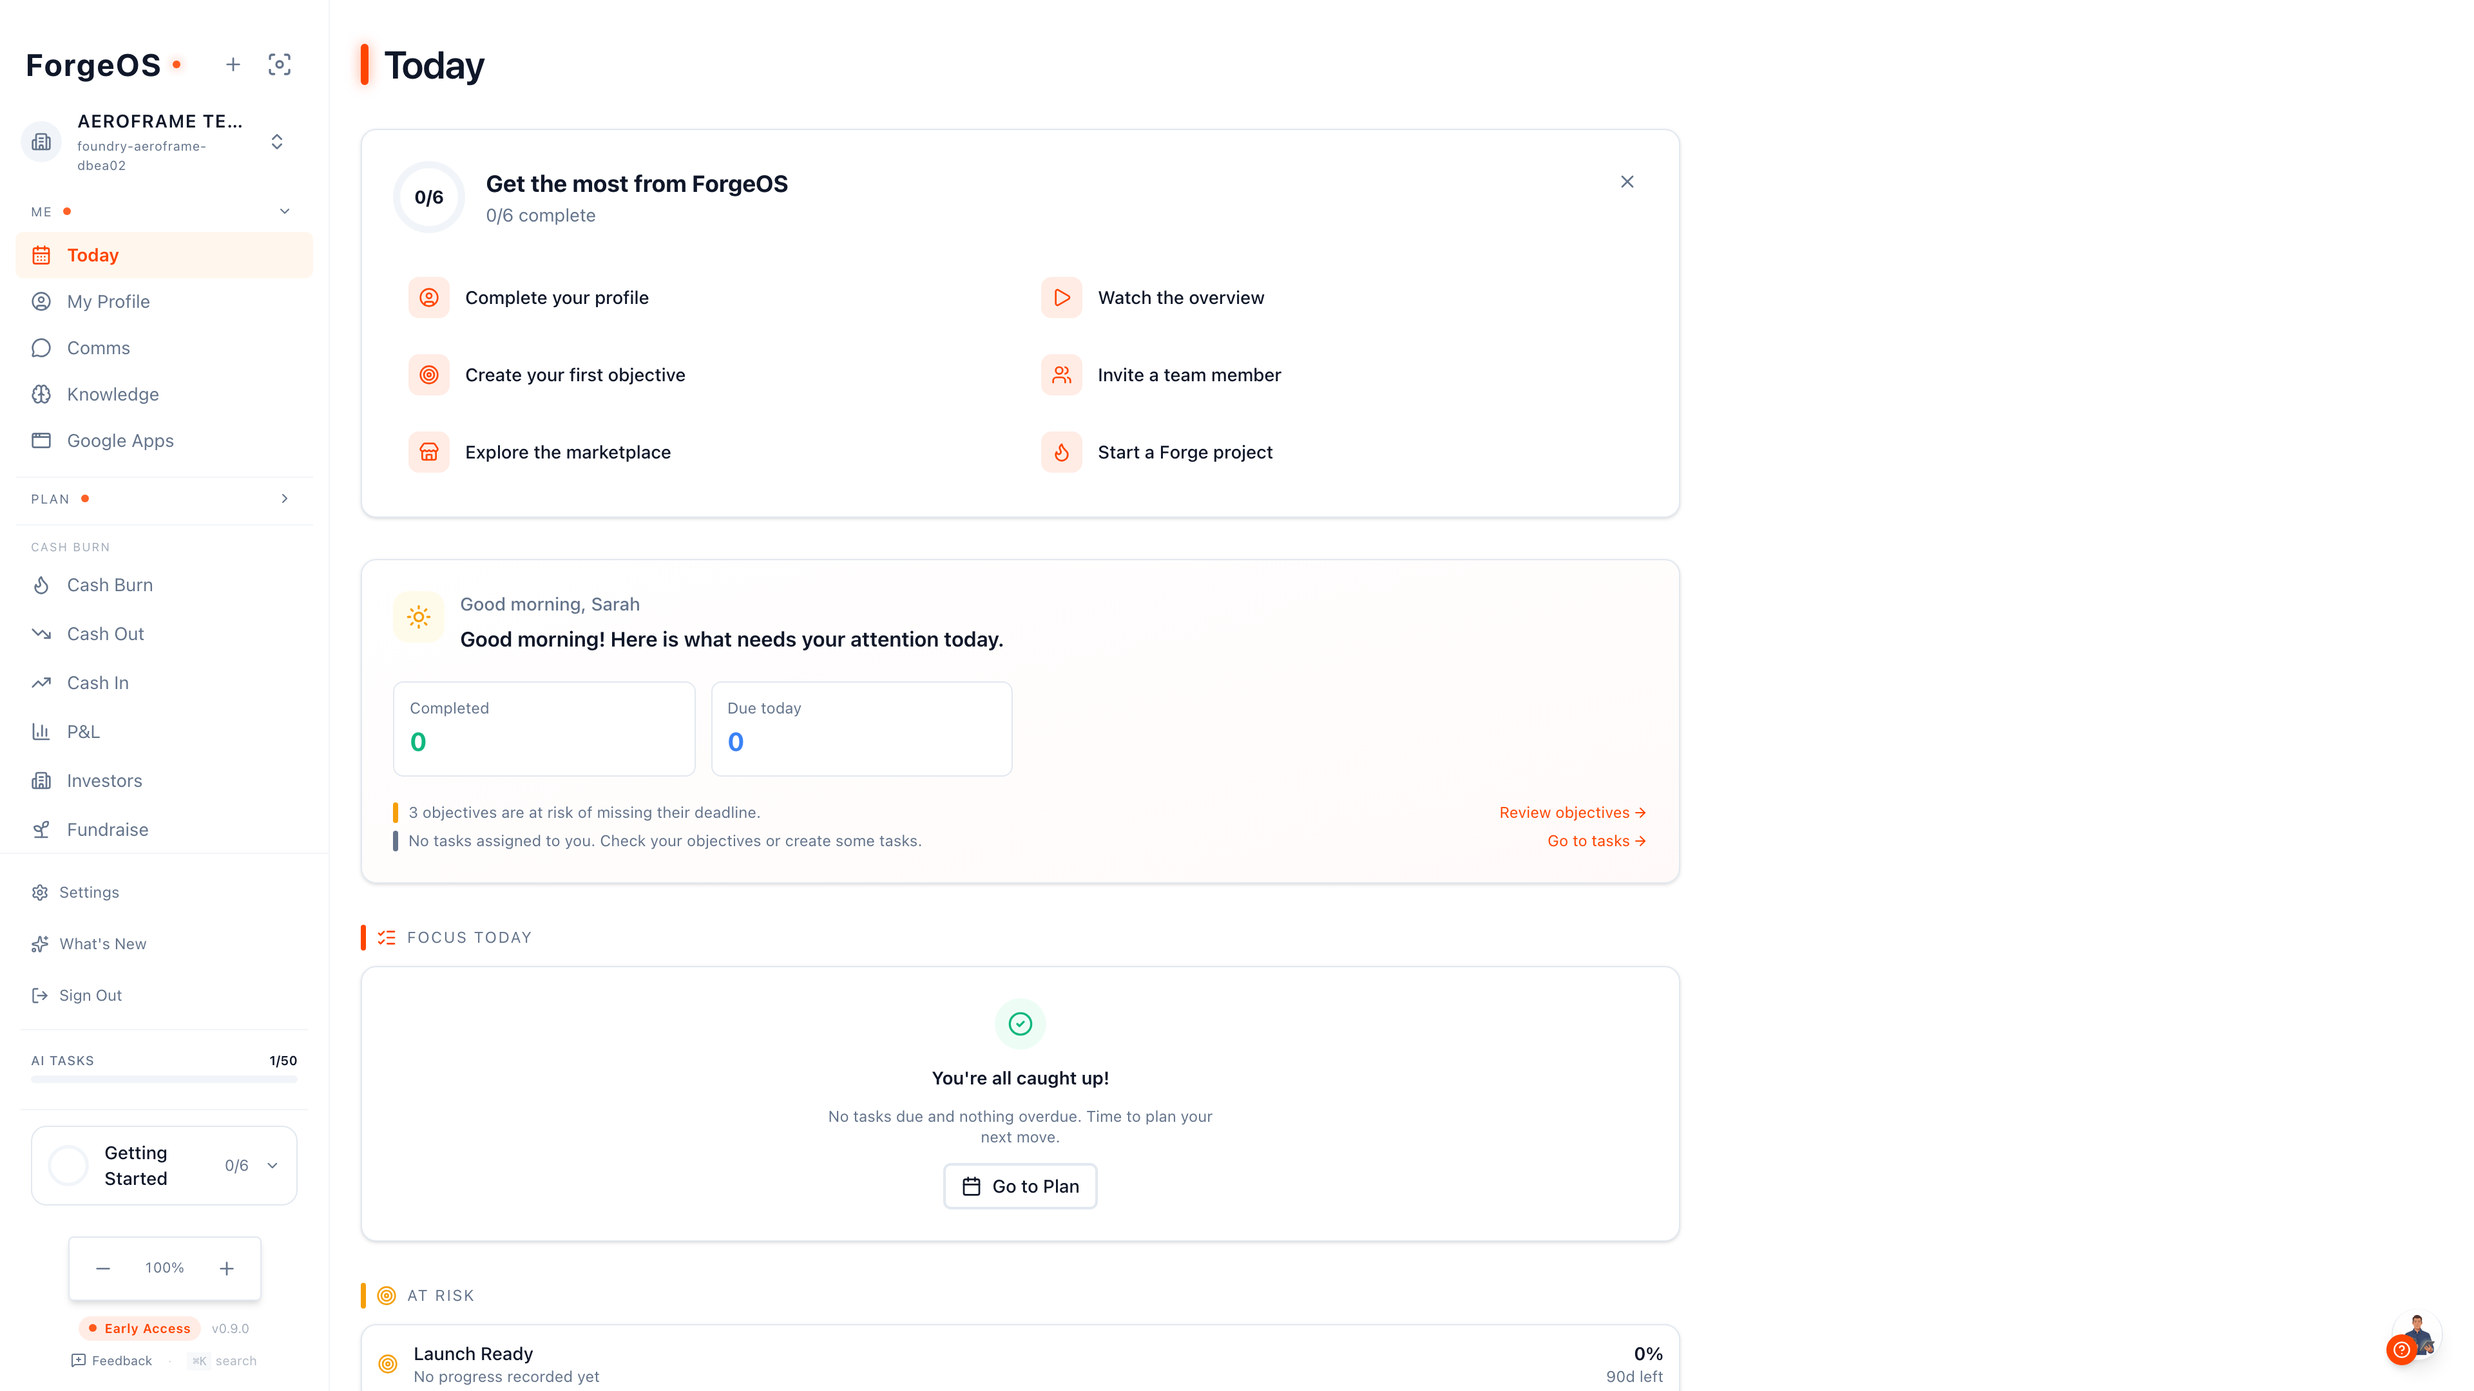
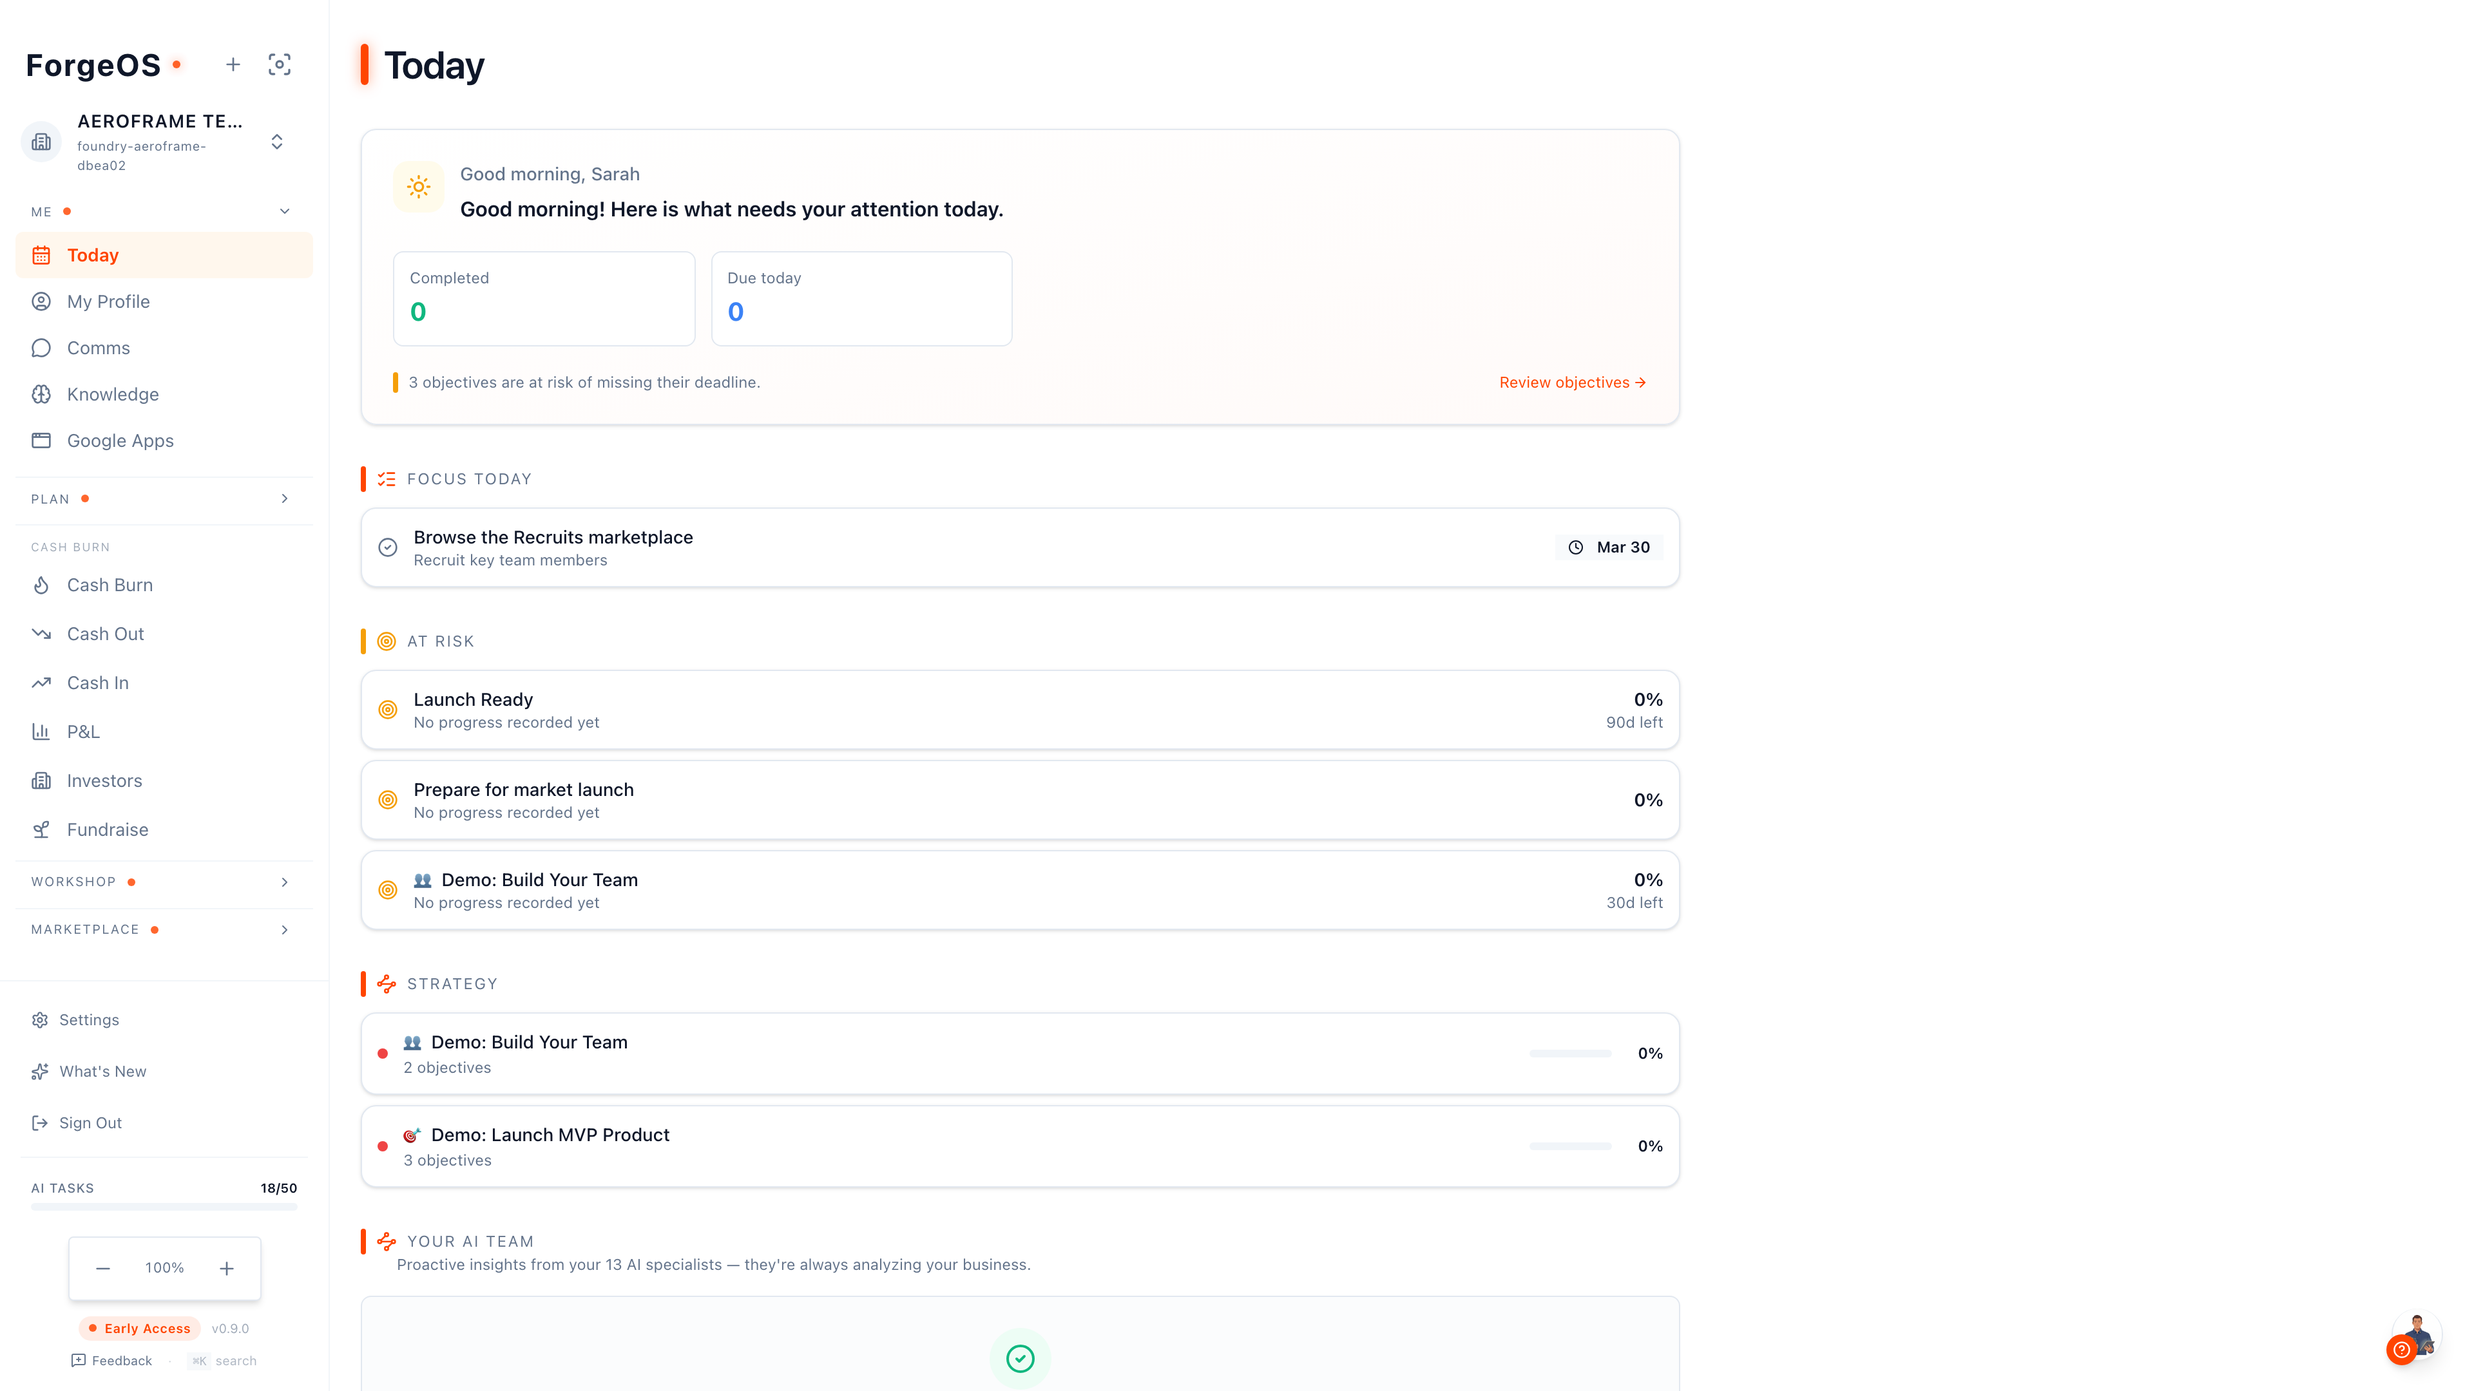
fix: re-captured marketing screenshots — polished, no tooltips
Previous screenshots had onboarding tooltips blocking content,
empty states, and wrong pages. Fixed:

1. Seeded all onboarding_data fields as complete in DB — no
   Getting Started checklist, no page tour tooltips, no banners
2. Capture script now dismisses Escape + Skip buttons + removes
   tooltips/popovers/toasts via DOM manipulation
3. Forge screenshot: shows home page with "Start from a description"
   card + "See what you'll get" sample modules (Handle Assembly,
   Lever Mechanism, Cap Grip, Pivot Housing with dimensions)
4. Dashboard: shows morning briefing with At Risk objectives and
   Strategy section (tasks have seeded completion + progress data)
5. Marketplace: clean stats dashboard (8,660 suppliers, charts)
6. Investors: 1,000 firms, 523 deep-profiled, charts + cards
7. Team: orbital view with specialists, no tooltip blocking

Also created dedicated seed script for screenshot demo account.

diff --git a/scripts/capture-screenshots.ts b/scripts/capture-screenshots.ts
@@ -1,14 +1,14 @@
 /**
  * @file capture-screenshots.ts
  *
- * @description Captures marketing screenshots from the live ForgeOS app
- * using Playwright. Logs in with the demo account, navigates to 5 key
- * pages, and saves 1920x1080 screenshots.
+ * @description Captures POLISHED marketing screenshots from the live ForgeOS
+ * app. Dismisses all tooltips, modals, and onboarding artifacts before
+ * capturing. Each page is carefully waited for and cleaned up.
  *
  * Usage: npx tsx scripts/capture-screenshots.ts
  */
 
-import { chromium } from 'playwright'
+import { chromium, type Page } from 'playwright'
 import path from 'path'
 import * as dotenv from 'dotenv'
 
@@ -19,20 +19,108 @@ const EMAIL = process.env.E2E_EMAIL || 'mktg-demo@fractionalforge.app'
 const PASSWORD = process.env.E2E_PASSWORD || 'ForgeScreenshots2026!'
 const SCREENSHOT_DIR = path.join(__dirname, '..', 'public', 'images', 'screenshots')
 
-const PAGES = [
-  { route: '/the-forge', filename: 'forge-cad-lab.png' },
-  { route: '/today', filename: 'dashboard-today.png' },
-  { route: '/marketplace', filename: 'marketplace.png' },
-  { route: '/investors', filename: 'investors.png' },
-  { route: '/team', filename: 'team-orbit.png' },
-]
+/**
+ * Dismiss ALL onboarding artifacts: tooltips, checklists, banners, modals.
+ * Runs in the browser context.
+ */
+async function dismissAllOnboarding(page: Page) {
+  await page.evaluate(() => {
+    // Mark all FeatureTips as seen (localStorage)
+    const tipIds = [
+      'forge-home', 'today-dashboard', 'marketplace-browse', 'marketplace-saved',
+      'investors-browse', 'team-members', 'team-workload', 'team-orbit',
+      'strategy-dashboard', 'strategy-river', 'strategy-link',
+      'objectives-board', 'tasks-command', 'agents-specialists',
+      'guild-events', 'guild-network', 'cash-burn', 'settings',
+      'knowledge', 'reports', 'forge-concept', 'forge-build',
+      'forge-specify', 'forge-source', 'forge-cad', 'forge-review',
+    ]
+    tipIds.forEach(id => localStorage.setItem(`forgeos:tip:${id}`, 'true'))
+
+    // Mark onboarding checklist as dismissed
+    localStorage.setItem('forgeos_onboarding_completed', 'true')
+
+    // Mark desktop banner as dismissed
+    localStorage.setItem('forgeos_desktop_banner_dismissed', new Date().toISOString())
+  })
+
+  // Close any visible modals/dialogs by pressing Escape
+  await page.keyboard.press('Escape')
+  await page.waitForTimeout(300)
+  await page.keyboard.press('Escape')
+  await page.waitForTimeout(300)
+
+  // Click away any remaining tooltips
+  try {
+    // Click "Skip" or "Next" on any tour tooltips
+    const skipBtns = page.locator('button:has-text("Skip"), button:has-text("Got it"), button:has-text("Dismiss")')
+    const count = await skipBtns.count()
+    for (let i = 0; i < count; i++) {
+      try { await skipBtns.nth(i).click({ timeout: 500 }) } catch { /* */ }
+      await page.waitForTimeout(200)
+    }
+  } catch { /* */ }
+
+  // Dismiss sonner toasts
+  try {
+    const toasts = page.locator('[data-sonner-toast]')
+    const toastCount = await toasts.count()
+    for (let i = 0; i < toastCount; i++) {
+      try { await toasts.nth(i).click({ timeout: 500 }) } catch { /* */ }
+    }
+  } catch { /* */ }
+}
+
+/**
+ * Hide UI elements that clutter screenshots.
+ */
+async function cleanupUI(page: Page) {
+  await page.evaluate(() => {
+    // Hide mobile nav, FAB, floating specialist, zoom controls
+    const selectors = [
+      '[data-testid="mobile-nav"]',
+      '[data-testid="mobile-fab"]',
+      '.sm\\:hidden', // mobile-only elements
+    ]
+    selectors.forEach(sel => {
+      document.querySelectorAll(sel).forEach(el => {
+        (el as HTMLElement).style.display = 'none'
+      })
+    })
+
+    // Hide Getting Started checklist in sidebar
+    const checklist = document.querySelector('[data-testid="getting-started-checklist"]')
+    if (checklist) (checklist as HTMLElement).style.display = 'none'
+
+    // Also hide by text content match
+    document.querySelectorAll('div, section').forEach(el => {
+      const text = (el as HTMLElement).innerText
+      if (text?.startsWith('Getting Started') && (el as HTMLElement).offsetHeight < 200) {
+        (el as HTMLElement).style.display = 'none'
+      }
+    })
+
+    // Hide any remaining tooltip/popover overlays
+    document.querySelectorAll('[role="tooltip"], [data-radix-popper-content-wrapper]').forEach(el => {
+      (el as HTMLElement).style.display = 'none'
+    })
+
+    // Hide the "Get the most from ForgeOS" onboarding banner
+    document.querySelectorAll('div').forEach(el => {
+      const text = (el as HTMLElement).innerText
+      if (text?.includes('Get the most from ForgeOS') && (el as HTMLElement).offsetHeight < 150) {
+        (el as HTMLElement).style.display = 'none'
+      }
+    })
+  })
+}
 
 async function main() {
   console.log('Launching browser...')
   const browser = await chromium.launch({ headless: true })
   const context = await browser.newContext({
     viewport: { width: 1920, height: 1080 },
-    deviceScaleFactor: 2, // Retina screenshots
+    deviceScaleFactor: 2,
   })
   const page = await context.newPage()
 
@@ -42,71 +130,134 @@ async function main() {
   await page.waitForLoadState('networkidle')
   await page.fill('input[name="email"]', EMAIL)
   await page.fill('input[name="password"]', PASSWORD)
-  await page.click('button:has-text("Enter the Forge"), button[type="submit"]')
+  await page.click('button:has-text("Enter the Forge")')
 
   try {
     await page.waitForURL('**/today**', { timeout: 20000 })
     console.log('Login successful!')
   } catch {
-    console.error('Login failed or redirect timed out. Current URL:', page.url())
+    console.error('Login failed. URL:', page.url())
     await browser.close()
     process.exit(1)
   }
 
-  // Dismiss any onboarding modals/banners
-  await page.waitForTimeout(2000)
+  // Wait for initial page load and dismiss all onboarding
+  await page.waitForTimeout(3000)
+  await dismissAllOnboarding(page)
+  await page.waitForTimeout(1000)
+
+  // ──────────────────────────────────────────────────
+  // 1. THE FORGE — Show a project with modules visible
+  // The CAD Lab is context-driven (no URL params for project ID).
+  // We need to: go to /the-forge → click project card → wait for cad-lab
+  // ──────────────────────────────────────────────────
+  console.log('Capturing The Forge (home page with sample components)...')
+  await page.goto(`${BASE_URL}/the-forge`)
+  await page.waitForLoadState('networkidle')
+  await page.waitForTimeout(4000)
+
+  // Dismiss "Start a Design" modal and any tooltips
+  await page.keyboard.press('Escape')
+  await page.waitForTimeout(300)
+  await page.keyboard.press('Escape')
+  await page.waitForTimeout(300)
+  await dismissAllOnboarding(page)
+
+  // Scroll down to show the "See what you'll get" section with sample components
+  await page.evaluate(() => {
+    const main = document.querySelector('main')
+    if (main) main.scrollTop = 200
+  })
+  await page.waitForTimeout(1000)
+  await cleanupUI(page)
+
+  await page.screenshot({
+    path: path.join(SCREENSHOT_DIR, 'forge-cad-lab.png'),
+    clip: { x: 0, y: 0, width: 1920, height: 1080 },
+  })
+  console.log('  Saved forge-cad-lab.png')
+
+  // ──────────────────────────────────────────────────
+  // 2. DASHBOARD — /today with content
+  // ──────────────────────────────────────────────────
+  console.log('Capturing Dashboard...')
+  await page.goto(`${BASE_URL}/today`)
+  await page.waitForLoadState('networkidle')
+  await page.waitForTimeout(4000)
+  await dismissAllOnboarding(page)
+  await cleanupUI(page)
+
+  await page.screenshot({
+    path: path.join(SCREENSHOT_DIR, 'dashboard-today.png'),
+    clip: { x: 0, y: 0, width: 1920, height: 1080 },
+  })
+  console.log('  Saved dashboard-today.png')
+
+  // ──────────────────────────────────────────────────
+  // 3. MARKETPLACE
+  // ──────────────────────────────────────────────────
+  console.log('Capturing Marketplace...')
+  await page.goto(`${BASE_URL}/marketplace`)
+  await page.waitForLoadState('networkidle')
+  await page.waitForTimeout(4000)
+  await dismissAllOnboarding(page)
+  await cleanupUI(page)
+
+  await page.screenshot({
+    path: path.join(SCREENSHOT_DIR, 'marketplace.png'),
+    clip: { x: 0, y: 0, width: 1920, height: 1080 },
+  })
+  console.log('  Saved marketplace.png')
+
+  // ──────────────────────────────────────────────────
+  // 4. INVESTORS
+  // ──────────────────────────────────────────────────
+  console.log('Capturing Investors...')
+  await page.goto(`${BASE_URL}/investors`)
+  await page.waitForLoadState('networkidle')
+  await page.waitForTimeout(4000)
+  await dismissAllOnboarding(page)
+  await cleanupUI(page)
+
+  await page.screenshot({
+    path: path.join(SCREENSHOT_DIR, 'investors.png'),
+    clip: { x: 0, y: 0, width: 1920, height: 1080 },
+  })
+  console.log('  Saved investors.png')
+
+  // ──────────────────────────────────────────────────
+  // 5. TEAM (orbital view)
+  // ──────────────────────────────────────────────────
+  console.log('Capturing Team...')
+  await page.goto(`${BASE_URL}/team`)
+  await page.waitForLoadState('networkidle')
+  await page.waitForTimeout(5000) // Extra time for SVG orbit to render
+  await dismissAllOnboarding(page)
+  await cleanupUI(page)
+
+  // Click "Orbital" or third view tab if available
   try {
-    const skipButton = page.locator('text=Skip tour, text=Skip, button:has-text("Dismiss")')
-    if (await skipButton.first().isVisible({ timeout: 2000 })) {
-      await skipButton.first().click()
-      await page.waitForTimeout(500)
+    const orbitalTab = page.locator('button:has-text("Orbital"), [role="tab"]:has-text("Orbital")')
+    if (await orbitalTab.isVisible({ timeout: 2000 })) {
+      await orbitalTab.click()
+      await page.waitForTimeout(2000)
     }
-  } catch {
-    // No modal to dismiss
-  }
+  } catch { /* */ }
 
-  // Capture each page
-  for (const { route, filename } of PAGES) {
-    console.log(`Capturing ${route}...`)
-    await page.goto(`${BASE_URL}${route}`)
-    await page.waitForLoadState('networkidle')
-    await page.waitForTimeout(3000) // Wait for animations + data loading
+  await dismissAllOnboarding(page)
+  await cleanupUI(page)
 
-    // Dismiss any toasts
-    try {
-      const toasts = page.locator('[data-sonner-toast]')
-      const count = await toasts.count()
-      for (let i = 0; i < count; i++) {
-        await toasts.nth(i).click({ timeout: 500 }).catch(() => {})
-      }
-    } catch {
-      // No toasts
-    }
-
-    // Hide mobile-only elements
-    await page.evaluate(() => {
-      document.querySelectorAll('[data-testid="mobile-nav"], [data-testid="mobile-fab"]').forEach(el => {
-        (el as HTMLElement).style.display = 'none'
-      })
-      // Also hide desktop banner if visible
-      document.querySelectorAll('.sm\\:hidden').forEach(el => {
-        (el as HTMLElement).style.display = 'none'
-      })
-    })
-
-    const filepath = path.join(SCREENSHOT_DIR, filename)
-    await page.screenshot({
-      path: filepath,
-      clip: { x: 0, y: 0, width: 1920, height: 1080 },
-    })
-    console.log(`  Saved: ${filepath}`)
-  }
+  await page.screenshot({
+    path: path.join(SCREENSHOT_DIR, 'team-orbit.png'),
+    clip: { x: 0, y: 0, width: 1920, height: 1080 },
+  })
+  console.log('  Saved team-orbit.png')
 
   await browser.close()
   console.log('\nAll screenshots captured!')
 }
 
 main().catch(err => {
-  console.error('Screenshot capture failed:', err)
+  console.error('Failed:', err)
   process.exit(1)
 })
